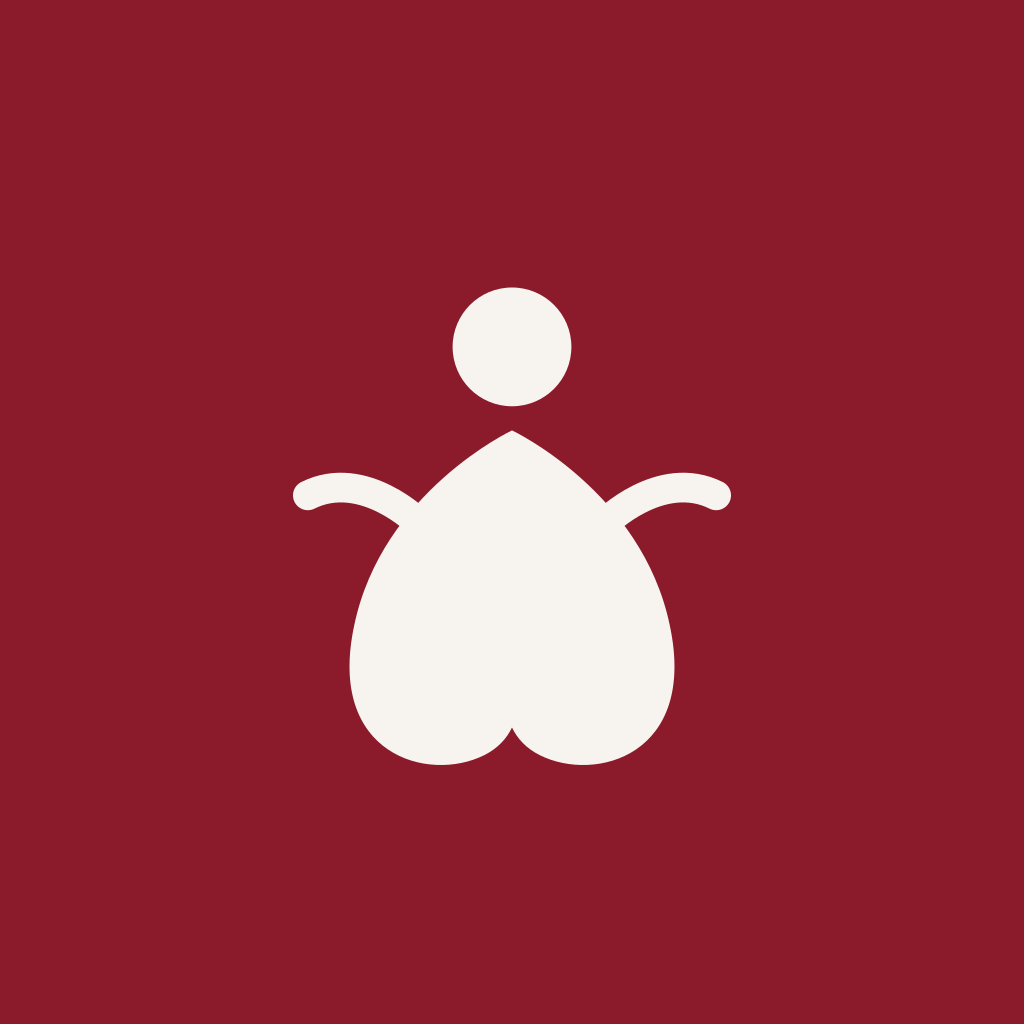
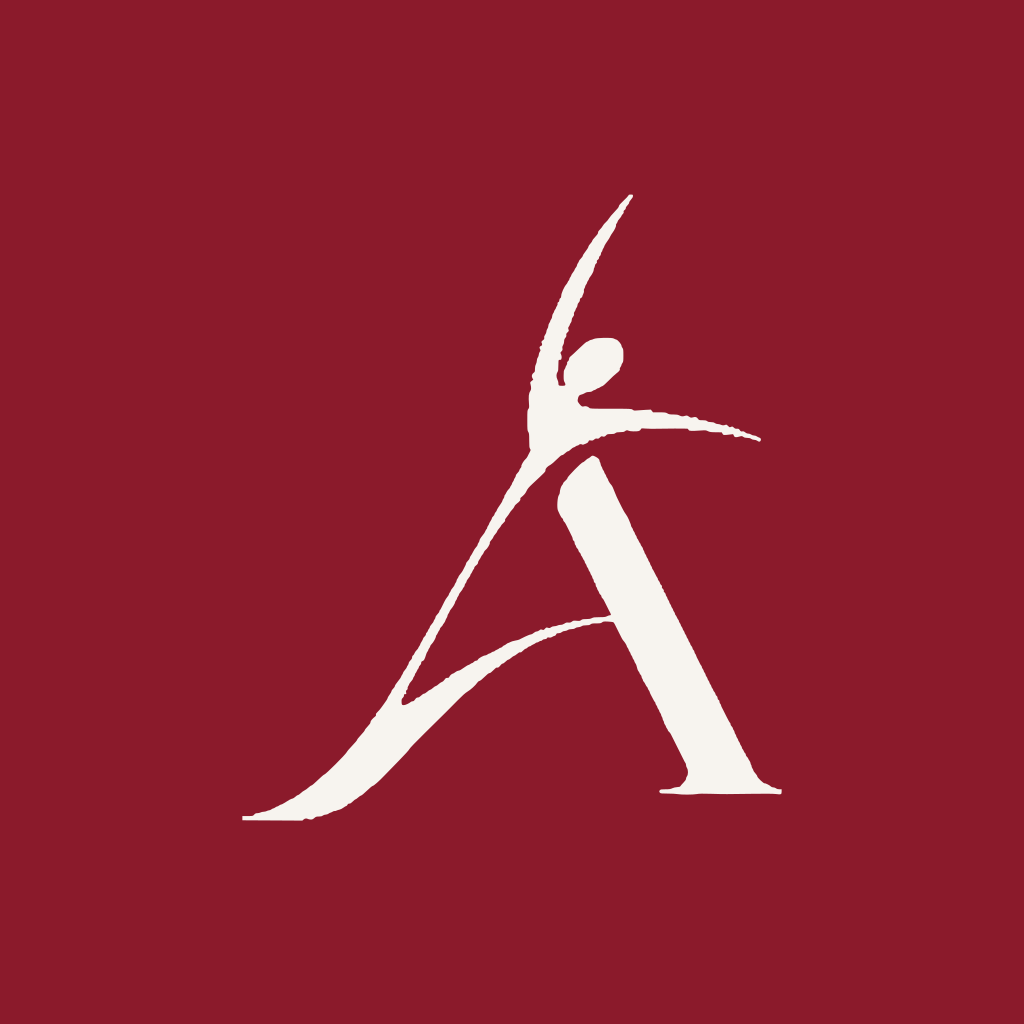
feat(brand): буква «A»-танцовщица из логотипа в иконках приложения и ассистента
- design/brand/letter-a.svg: векторный контур буквы «A» из логотипа (brand/logo.png в R2)
- scripts/generate-icons.ts: иконки строятся из вектора, а не из старой фигуры танцовщицы
- Иконки веба: src/app/icon.png, apple-icon.png, favicon.ico
- Иконки mobile (Expo): icon, android foreground/monochrome/background, splash, favicon
- R2: media/app-icon-*.png (манифест PWA) и brand/apple-icon.png (аватар ассистента) обновлены

Changed region(s): [[0.25, 0.2188, 0.75, 0.8125], [0.625, 0.5625, 0.6562, 0.5938], [0.5938, 0.1875, 0.625, 0.2188]]

diff --git a/scripts/generate-icons.ts b/scripts/generate-icons.ts
@@ -1,13 +1,13 @@
 /**
- * Генерация иконок бренда для PWA / favicon / apple touch.
+ * Генерация иконок бренда: PWA, favicon, apple touch, иконки мобильного приложения.
  *
- * Источник формы — `src/components/brand/brand-mark.tsx` (силуэт танцовщицы).
- * Все PNG рендерятся из SVG через sharp, никаких внешних ассетов.
+ * Источник формы — буква «A» из логотипа (танцовщица): `design/brand/letter-a.svg`, вектор.
+ * Буква вписывается в квадрат на бордовом фоне бренда. PNG рендерятся через sharp, растра нет.
  *
  * Запуск: `npx tsx scripts/generate-icons.ts`
  */
 
-import { mkdir, writeFile } from 'node:fs/promises';
+import { mkdir, readFile, writeFile } from 'node:fs/promises';
 import { join } from 'node:path';
 import sharp from 'sharp';
 
@@ -17,30 +17,42 @@ const ROOT = process.cwd();
 const CRIMSON = '#8B1A2B';
 const IVORY = '#F7F4EF';
 
-const BRAND_PATHS = `
-  <circle cx="16" cy="6" r="3.2" fill="${IVORY}" />
-  <path d="M16 10.5C16 10.5 9 13.8 7.5 21C6 28 11.5 29.5 14.5 28C17.5 26.5 16 22.5 16 22.5C16 22.5 14.5 26.5 17.5 28C20.5 29.5 26 28 24.5 21C23 13.8 16 10.5 16 10.5Z" fill="${IVORY}" />
-  <path d="M11 15.5C11 15.5 8 12.5 5 14" stroke="${IVORY}" stroke-width="1.6" stroke-linecap="round" fill="none"/>
-  <path d="M21 15.5C21 15.5 24 12.5 27 14" stroke="${IVORY}" stroke-width="1.6" stroke-linecap="round" fill="none"/>
-`;
+interface IconOptions {
+  maskable?: boolean;
+  withRadius?: boolean;
+  /** Бордовый квадрат под буквой; без него иконка прозрачная (переднего плана для Android). */
+  background?: boolean;
+  /** Буква; для фона Android без неё. */
+  glyph?: boolean;
+}
 
-function iconSvg(size: number, opts: { maskable?: boolean; withRadius?: boolean } = {}): string {
-  const { maskable = false, withRadius = false } = opts;
-  // maskable — оставляем safe area 20% по кругу (icon внутри 80% центра)
-  // поэтому фигура меньше и фон без скруглений (маску наложит система)
-  const scaleFactor = maskable ? 0.46 : 0.58;
-  const iconScale = (size * scaleFactor) / 32;
-  const cx = size / 2;
-  // визуальный центр чуть ниже геометрического — фигура вытянута вниз
-  const cy = size / 2 + (maskable ? size * 0.015 : size * 0.02);
+interface Glyph {
+  viewBox: string;
+  d: string;
+}
+
+/** Контур буквы из `design/brand/letter-a.svg`: viewBox и данные одного пути. */
+function parseGlyph(svg: string): Glyph {
+  const viewBox = svg.match(/viewBox="([^"]+)"/)?.[1];
+  const d = svg.match(/ d="([^"]+)"/)?.[1];
+  if (!viewBox || !d) throw new Error('letter-a.svg: нет viewBox или контура');
+  return { viewBox, d };
+}
+
+function iconSvg(glyphShape: Glyph, size: number, opts: IconOptions = {}): string {
+  const { maskable = false, withRadius = false, background = true, glyph = true } = opts;
+  // Маскируемые иконки кладут букву в безопасную зону 80%, обычные — крупнее.
+  const glyphSize = size * (maskable ? 0.5 : 0.62);
+  const offset = (size - glyphSize) / 2;
   const radius = withRadius ? Math.round(size * 0.22) : 0;
-
+  const rect = background ? `<rect width="${size}" height="${size}" rx="${radius}" ry="${radius}" fill="${CRIMSON}" />` : '';
+  const letter = glyph
+    ? `<svg x="${offset}" y="${offset}" width="${glyphSize}" height="${glyphSize}" viewBox="${glyphShape.viewBox}" preserveAspectRatio="xMidYMid meet"><path fill="${IVORY}" fill-rule="evenodd" d="${glyphShape.d}" /></svg>`
+    : '';
   return `<?xml version="1.0" encoding="UTF-8"?>
-<svg width="${size}" height="${size}" viewBox="0 0 ${size} ${size}" xmlns="http://www.w3.org/2000/svg" role="img">
-  <rect width="${size}" height="${size}" rx="${radius}" ry="${radius}" fill="${CRIMSON}" />
-  <g transform="translate(${cx}, ${cy}) scale(${iconScale}) translate(-16, -16)">
-    ${BRAND_PATHS}
-  </g>
+<svg width="${size}" height="${size}" viewBox="0 0 ${size} ${size}" xmlns="http://www.w3.org/2000/svg" xmlns:xlink="http://www.w3.org/1999/xlink" role="img">
+  ${rect}
+  ${letter}
 </svg>`;
 }
 
@@ -49,97 +61,94 @@ async function renderPng(svg: string): Promise<Buffer> {
 }
 
 function pngToIco(pngBuffers: Buffer[], sizes: number[]): Buffer {
-  // ICO с PNG внутри (Vista+). Заголовок + записи + данные.
+  // ICO с PNG внутри (Vista+): заголовок, записи каталога, затем данные.
   const count = pngBuffers.length;
   const headerSize = 6 + count * 16;
-  let offset = headerSize;
   const header = Buffer.alloc(headerSize);
   header.writeUInt16LE(0, 0); // reserved
   header.writeUInt16LE(1, 2); // type = icon
   header.writeUInt16LE(count, 4);
-  const parts: Buffer[] = [header];
+  let offset = headerSize;
   for (let i = 0; i < count; i++) {
     const png = pngBuffers[i]!;
     const size = sizes[i]!;
-    const entry = Buffer.alloc(16);
-    entry.writeUInt8(size === 256 ? 0 : size, 0); // width
-    entry.writeUInt8(size === 256 ? 0 : size, 1); // height
-    entry.writeUInt8(0, 2); // colors
-    entry.writeUInt8(0, 3); // reserved
-    entry.writeUInt16LE(1, 4); // planes
-    entry.writeUInt16LE(32, 6); // bpp
-    entry.writeUInt32LE(png.length, 8); // bytes
-    entry.writeUInt32LE(offset, 12); // offset
-    // overwrite header entry
-    entry.copy(header, 6 + i * 16);
+    const base = 6 + i * 16;
+    header.writeUInt8(size === 256 ? 0 : size, base);
+    header.writeUInt8(size === 256 ? 0 : size, base + 1);
+    header.writeUInt8(0, base + 2);
+    header.writeUInt8(0, base + 3);
+    header.writeUInt16LE(1, base + 4);
+    header.writeUInt16LE(32, base + 6);
+    header.writeUInt32LE(png.length, base + 8);
+    header.writeUInt32LE(offset, base + 12);
     offset += png.length;
-    parts.push(png);
   }
-  // header already includes entries, but we pushed pngs separately — need to build final
-  // Actually header buffer already contains entries, so we just concat header + pngs
   return Buffer.concat([header, ...pngBuffers]);
 }
 
 async function main() {
+  const glyphShape = parseGlyph(await readFile(join(ROOT, 'design', 'brand', 'letter-a.svg'), 'utf8'));
+
   const appDir = join(ROOT, 'src', 'app');
   const mediaDir = join(ROOT, 'public', 'media');
-
+  const mobileAssets = join(ROOT, 'mobile', 'assets');
   await mkdir(mediaDir, { recursive: true });
 
-  // ——— PWA icons ———
-  const targets = [
+  // ——— PWA icons (в R2 под ключами media/app-icon-*.png) ———
+  const pwa = [
     { size: 192, file: 'app-icon-192.png', maskable: false, radius: true },
     { size: 192, file: 'app-icon-192-maskable.png', maskable: true, radius: false },
     { size: 512, file: 'app-icon-512.png', maskable: false, radius: true },
     { size: 512, file: 'app-icon-512-maskable.png', maskable: true, radius: false },
   ] as const;
-
-  for (const t of targets) {
-    const svg = iconSvg(t.size, { maskable: t.maskable, withRadius: t.radius });
-    const png = await renderPng(svg);
+  for (const t of pwa) {
+    const png = await renderPng(iconSvg(glyphShape, t.size, { maskable: t.maskable, withRadius: t.radius }));
     await writeFile(join(mediaDir, t.file), png);
     console.log(`✓ public/media/${t.file} (${png.length} bytes)`);
   }
 
-  // ——— app/icon.png (32) + high-res variants для /icon routes ———
-  // Next file convention: icon.png → /icon , icon1.png → второй вариант и т.д.
-  // Генерируем 32, 192, 512 как отдельные файлы для полноты.
-  const appIcons = [
-    { size: 32, file: 'icon.png', maskable: false, radius: true },
-  ];
-  for (const t of appIcons) {
-    const svg = iconSvg(t.size, { maskable: t.maskable, withRadius: t.radius });
-    const png = await renderPng(svg);
-    await writeFile(join(appDir, t.file), png);
-    console.log(`✓ src/app/${t.file} (${png.length} bytes)`);
+  // ——— favicon веба: 32px; app/icon.png отдаётся как /icon ———
+  {
+    const png = await renderPng(iconSvg(glyphShape, 32, { withRadius: true }));
+    await writeFile(join(appDir, 'icon.png'), png);
+    console.log(`✓ src/app/icon.png (${png.length} bytes)`);
   }
 
-  // ——— Apple touch icon — 180×180, без скруглений (iOS округляет сам) ———
+  // ——— Apple touch icon 180: без скруглений, iOS округляет сам. Тот же файл — аватар ассистента в R2 ———
   {
-    const size = 180;
-    const svg = iconSvg(size, { maskable: true, withRadius: false });
-    const png = await renderPng(svg);
+    const png = await renderPng(iconSvg(glyphShape, 180, { maskable: true, withRadius: false }));
     await writeFile(join(appDir, 'apple-icon.png'), png);
     console.log(`✓ src/app/apple-icon.png (${png.length} bytes)`);
   }
 
-  // ——— Apple icon 180 maskable не нужен, но для консистентности оставляем 180 any ———
-  // ——— favicon.ico — 16/32/48 PNG-in-ICO ———
+  // ——— favicon.ico: 16/32/48 PNG внутри ICO ———
   {
     const sizes = [16, 32, 48];
     const pngs: Buffer[] = [];
-    for (const s of sizes) {
-      const svg = iconSvg(s, { maskable: false, withRadius: false });
-      // favicon — без скруглений, плотная фигура
-      const png = await sharp(Buffer.from(svg)).png().toBuffer();
-      pngs.push(png);
-    }
+    for (const s of sizes) pngs.push(await renderPng(iconSvg(glyphShape, s)));
     const ico = pngToIco(pngs, sizes);
     await writeFile(join(appDir, 'favicon.ico'), ico);
     console.log(`✓ src/app/favicon.ico (${ico.length} bytes, ${sizes.join('/')}px)`);
   }
 
-  // public/favicon.ico не создаём — app/favicon.ico покрывает /favicon.ico
+  // ——— Мобильное приложение (Expo): иконки в mobile/assets, см. mobile/app.json ———
+  const mobile: Array<{ file: string; size: number; svg: string }> = [
+    // Основная иконка: квадрат без скруглений (iOS и Android сами накладывают маску).
+    { file: 'icon.png', size: 1024, svg: iconSvg(glyphShape, 1024) },
+    // Android: фон отдельно, буква — передний план в безопасной зоне, монохром — тот же силуэт.
+    { file: 'android-icon-background.png', size: 1024, svg: iconSvg(glyphShape, 1024, { background: true, glyph: false }) },
+    { file: 'android-icon-foreground.png', size: 1024, svg: iconSvg(glyphShape, 1024, { maskable: true, background: false }) },
+    { file: 'android-icon-monochrome.png', size: 1024, svg: iconSvg(glyphShape, 1024, { maskable: true, background: false }) },
+    // Заставка: буква на прозрачном фоне, фон даёт экран заставки.
+    { file: 'splash-icon.png', size: 1024, svg: iconSvg(glyphShape, 1024, { background: false }) },
+    // Веб-версия Expo: favicon на бордовом фоне.
+    { file: 'favicon.png', size: 48, svg: iconSvg(glyphShape, 48) },
+  ];
+  for (const t of mobile) {
+    const png = await renderPng(t.svg);
+    await writeFile(join(mobileAssets, t.file), png);
+    console.log(`✓ mobile/assets/${t.file} (${png.length} bytes)`);
+  }
 
   console.log('\nГотово. Проверь: npm run build должен показать ● /icon, ● /apple-icon, ● /manifest.webmanifest');
 }
